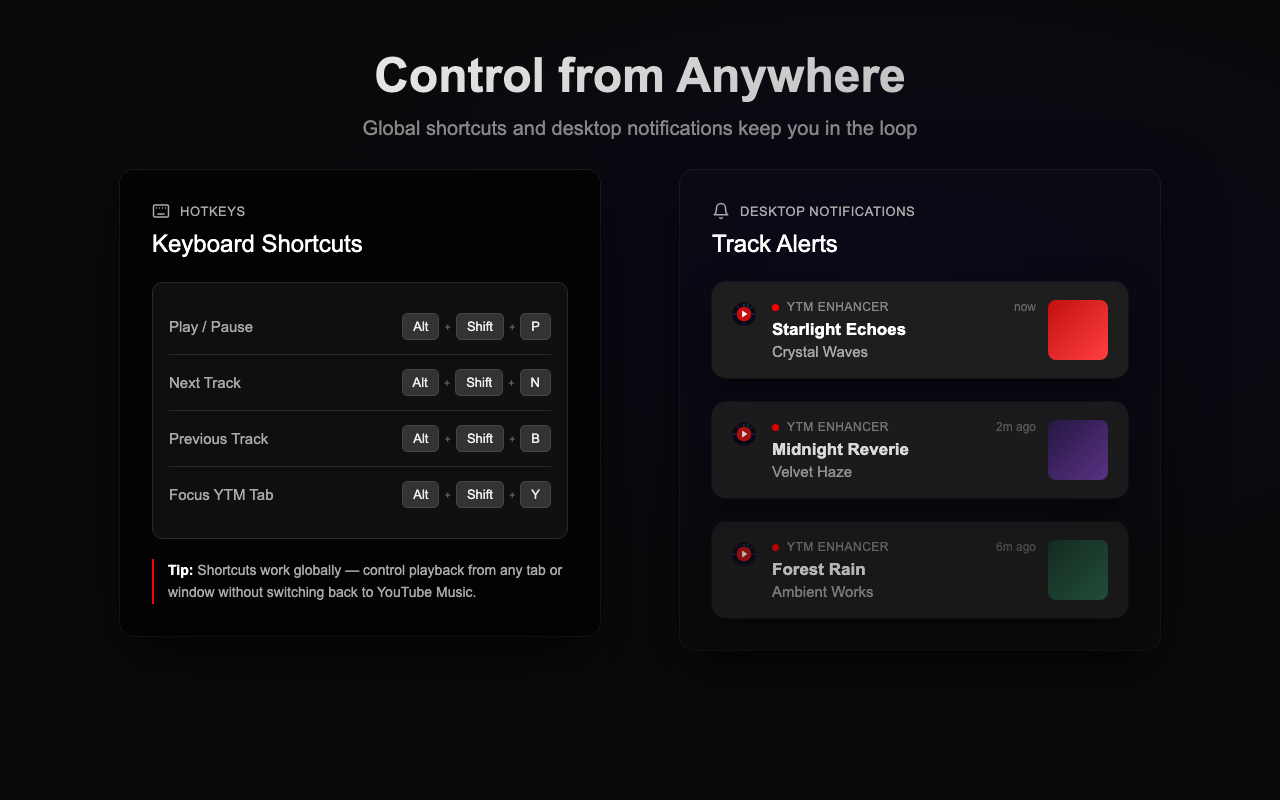
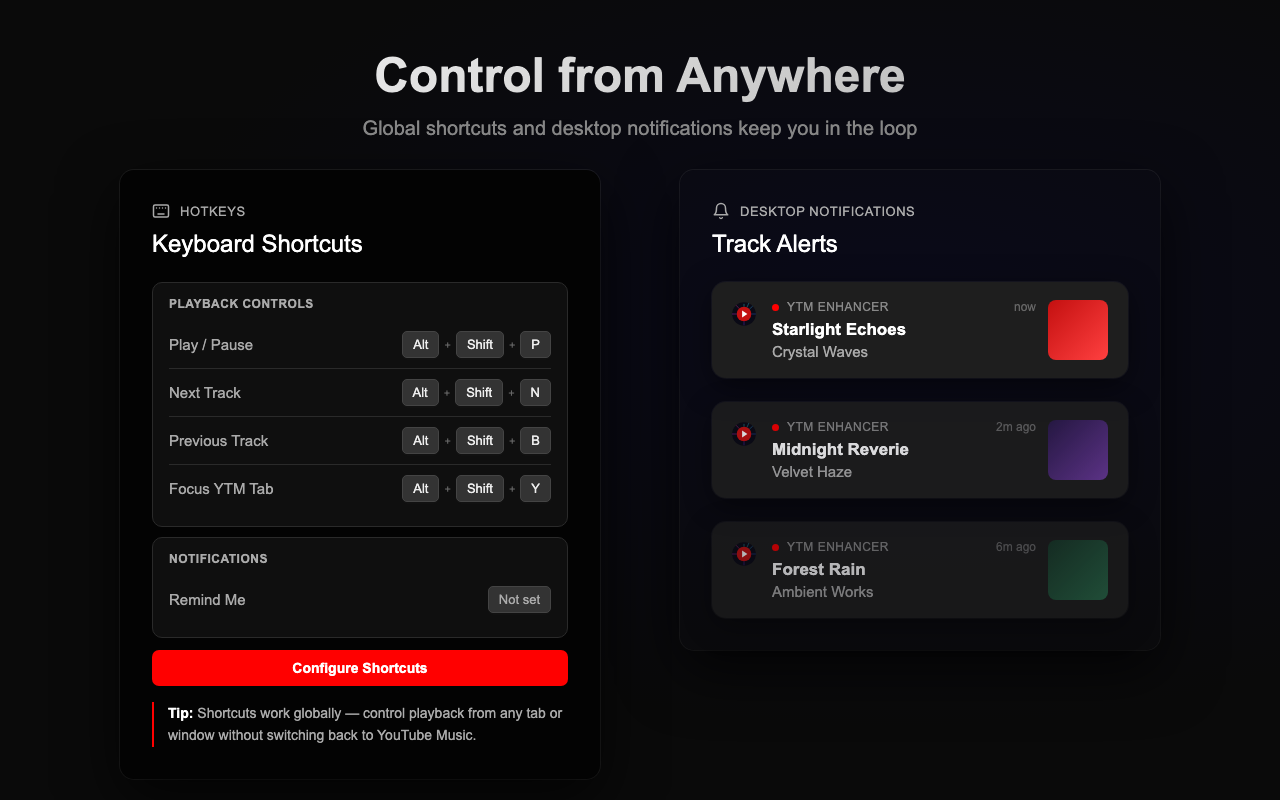
docs: refresh store listing copy

diff --git a/store/screenshots/05-hotkeys-notifications.html b/store/screenshots/05-hotkeys-notifications.html
@@ -140,14 +140,29 @@
         background: #0f0f0f;
         border: 1px solid #2a2a2a;
         border-radius: 10px;
-        padding: 16px;
+        padding: 14px 16px;
+      }
+
+      .shortcut-groups {
+        display: flex;
+        flex-direction: column;
+        gap: 10px;
+      }
+
+      .shortcut-group-title {
+        color: #aaa;
+        font-size: 12px;
+        font-weight: 700;
+        letter-spacing: 0.5px;
+        margin-bottom: 10px;
+        text-transform: uppercase;
       }
 
       .shortcut-row {
         display: flex;
         justify-content: space-between;
         align-items: center;
-        padding: 14px 0;
+        padding: 10px 0;
       }
       .shortcut-row + .shortcut-row {
         border-top: 1px solid #2a2a2a;
@@ -173,13 +188,28 @@
         min-width: 28px;
         text-align: center;
       }
+      .key-muted {
+        color: #aaa;
+        min-width: 52px;
+      }
       .key-sep {
         font-size: 11px;
         color: #666;
       }
 
+      .configure-btn {
+        margin-top: 12px;
+        border-radius: 7px;
+        background: #ff0000;
+        color: #fff;
+        font-size: 14px;
+        font-weight: 600;
+        padding: 10px 14px;
+        text-align: center;
+      }
+
       .shortcuts-hint {
-        margin-top: 20px;
+        margin-top: 16px;
         font-size: 14px;
         color: #aaa;
         line-height: 1.6;
@@ -296,48 +326,63 @@
         </div>
         <h2>Keyboard Shortcuts</h2>
 
-        <div class="settings-card">
-          <div class="shortcut-row">
-            <span class="shortcut-label">Play / Pause</span>
-            <div class="shortcut-keys">
-              <span class="key">Alt</span>
-              <span class="key-sep">+</span>
-              <span class="key">Shift</span>
-              <span class="key-sep">+</span>
-              <span class="key">P</span>
+        <div class="shortcut-groups">
+          <div class="settings-card">
+            <div class="shortcut-group-title">Playback Controls</div>
+            <div class="shortcut-row">
+              <span class="shortcut-label">Play / Pause</span>
+              <div class="shortcut-keys">
+                <span class="key">Alt</span>
+                <span class="key-sep">+</span>
+                <span class="key">Shift</span>
+                <span class="key-sep">+</span>
+                <span class="key">P</span>
+              </div>
+            </div>
+            <div class="shortcut-row">
+              <span class="shortcut-label">Next Track</span>
+              <div class="shortcut-keys">
+                <span class="key">Alt</span>
+                <span class="key-sep">+</span>
+                <span class="key">Shift</span>
+                <span class="key-sep">+</span>
+                <span class="key">N</span>
+              </div>
+            </div>
+            <div class="shortcut-row">
+              <span class="shortcut-label">Previous Track</span>
+              <div class="shortcut-keys">
+                <span class="key">Alt</span>
+                <span class="key-sep">+</span>
+                <span class="key">Shift</span>
+                <span class="key-sep">+</span>
+                <span class="key">B</span>
+              </div>
+            </div>
+            <div class="shortcut-row">
+              <span class="shortcut-label">Focus YTM Tab</span>
+              <div class="shortcut-keys">
+                <span class="key">Alt</span>
+                <span class="key-sep">+</span>
+                <span class="key">Shift</span>
+                <span class="key-sep">+</span>
+                <span class="key">Y</span>
+              </div>
             </div>
           </div>
-          <div class="shortcut-row">
-            <span class="shortcut-label">Next Track</span>
-            <div class="shortcut-keys">
-              <span class="key">Alt</span>
-              <span class="key-sep">+</span>
-              <span class="key">Shift</span>
-              <span class="key-sep">+</span>
-              <span class="key">N</span>
-            </div>
-          </div>
-          <div class="shortcut-row">
-            <span class="shortcut-label">Previous Track</span>
-            <div class="shortcut-keys">
-              <span class="key">Alt</span>
-              <span class="key-sep">+</span>
-              <span class="key">Shift</span>
-              <span class="key-sep">+</span>
-              <span class="key">B</span>
-            </div>
-          </div>
-          <div class="shortcut-row">
-            <span class="shortcut-label">Focus YTM Tab</span>
-            <div class="shortcut-keys">
-              <span class="key">Alt</span>
-              <span class="key-sep">+</span>
-              <span class="key">Shift</span>
-              <span class="key-sep">+</span>
-              <span class="key">Y</span>
+
+          <div class="settings-card">
+            <div class="shortcut-group-title">Notifications</div>
+            <div class="shortcut-row">
+              <span class="shortcut-label">Remind Me</span>
+              <div class="shortcut-keys">
+                <span class="key key-muted">Not set</span>
+              </div>
             </div>
           </div>
         </div>
+
+        <div class="configure-btn">Configure Shortcuts</div>
 
         <div class="shortcuts-hint">
           <strong>Tip:</strong> Shortcuts work globally &mdash; control playback

diff --git a/store/screenshots/promo-marquee-1400x560.html b/store/screenshots/promo-marquee-1400x560.html
@@ -390,6 +390,11 @@
         color: #eee;
         box-shadow: 0 1px 0 #111;
       }
+      .ss-key-muted {
+        color: #aaa;
+        min-width: 26px;
+        text-align: center;
+      }
       .ss-keys {
         display: flex;
         gap: 2px;
@@ -777,6 +782,7 @@
         </div>
         <div class="ss-main">
           <h2>Hotkeys</h2>
+          <h3>Playback</h3>
           <div class="ss-card">
             <div class="ss-shortcut-row">
               <span class="ss-shortcut-label">Play / Pause</span>
@@ -787,7 +793,7 @@
               </div>
             </div>
             <div class="ss-shortcut-row">
-              <span class="ss-shortcut-label">Next Track</span>
+              <span class="ss-shortcut-label">Next</span>
               <div class="ss-keys">
                 <span class="ss-key">Alt</span><span class="ss-key-sep">+</span
                 ><span class="ss-key">Shift</span
@@ -795,19 +801,20 @@
               </div>
             </div>
             <div class="ss-shortcut-row">
-              <span class="ss-shortcut-label">Previous</span>
-              <div class="ss-keys">
-                <span class="ss-key">Alt</span><span class="ss-key-sep">+</span
-                ><span class="ss-key">Shift</span
-                ><span class="ss-key-sep">+</span><span class="ss-key">B</span>
-              </div>
-            </div>
-            <div class="ss-shortcut-row">
-              <span class="ss-shortcut-label">Focus Tab</span>
+              <span class="ss-shortcut-label">Focus YTM Tab</span>
               <div class="ss-keys">
                 <span class="ss-key">Alt</span><span class="ss-key-sep">+</span
                 ><span class="ss-key">Shift</span
                 ><span class="ss-key-sep">+</span><span class="ss-key">Y</span>
+              </div>
+            </div>
+          </div>
+          <h3>Alerts</h3>
+          <div class="ss-card">
+            <div class="ss-shortcut-row">
+              <span class="ss-shortcut-label">Remind Me</span>
+              <div class="ss-keys">
+                <span class="ss-key ss-key-muted">Not set</span>
               </div>
             </div>
           </div>

diff --git a/store/STORE.md b/store/STORE.md
@@ -10,22 +10,24 @@ the shared sections unless a browser-specific requirement forces different copy.
 
 ### Detailed Description
 
-YTM Enhancer upgrades YouTube Music in your browser with smarter controls,
-automation, and visual enhancements, without forcing you into a replacement app
-or wrapper.
+YTM Enhancer upgrades YouTube Music in your browser with smarter playback
+controls, automation, notifications, keyboard shortcuts, Picture-in-Picture
+controls, and visual enhancements, without forcing you into a replacement app or
+wrapper.
 
 If you love YouTube Music but want a more fully featured browser listening
 experience, this extension is for you.
 
 ### Key Features
 
-- Playback Controls: one panel for playback control, tab switching, and now
-  playing details
-- Autoplay: optionally start playback automatically when YouTube Music loads
+- Playback Controls: control playback, switch YouTube Music tabs, seek, adjust
+  volume, change speed/quality, and toggle shuffle/repeat from one panel
+- Auto Play: optionally start playback automatically when YouTube Music loads
 - Auto Skip Disliked: automatically skip disliked tracks when they appear
 - Audio Visualizer: configurable visualizer overlays
-- Hotkeys: playback and focus shortcuts
-- Mini Player: compact Picture-in-Picture controls while multitasking
+- Hotkeys: playback, tab focus, and module action shortcuts
+- Mini Player: compact extension Picture-in-Picture control window while
+  multitasking
 - Notifications: track-change and playback-resumed desktop notifications
 - Sleep Timer: stop playback by duration or clock time
 
@@ -68,8 +70,9 @@ Public URL: `https://github.com/gormanity/ytm-enhancer/blob/main/PRIVACY.md`
 ### Single Purpose Statement
 
 YTM Enhancer enhances the YouTube Music web app on `music.youtube.com` by adding
-optional playback controls, automation features, and interface improvements for
-the browser listening experience.
+optional playback controls, tab switching, automation, notifications, keyboard
+shortcuts, Picture-in-Picture controls, and interface improvements for the
+browser listening experience.
 
 ---
 
@@ -94,8 +97,8 @@ the browser listening experience.
 #### Single Purpose Description
 
 YTM Enhancer enhances the YouTube Music web app on `music.youtube.com` with
-optional playback controls, automation, notifications, keyboard shortcuts, and
-Picture-in-Picture interface improvements.
+optional playback controls, tab switching, automation, notifications, keyboard
+shortcuts, Picture-in-Picture controls, and interface improvements.
 
 #### Permission Justification
 